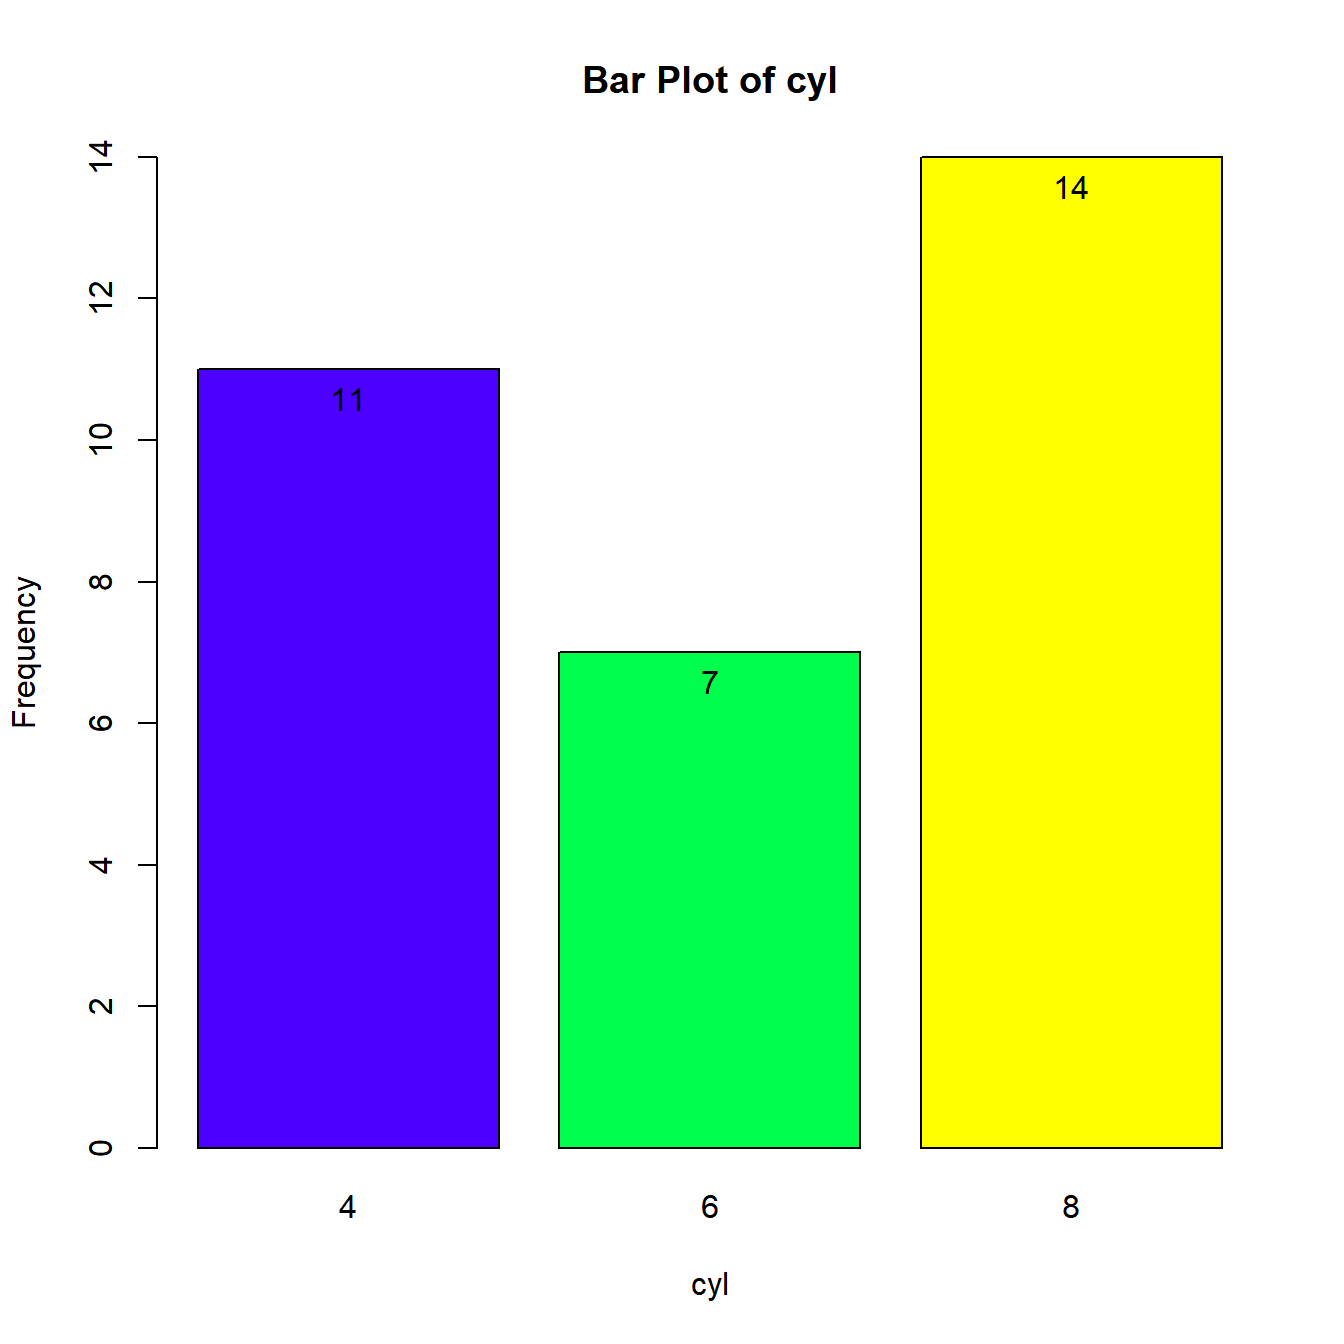
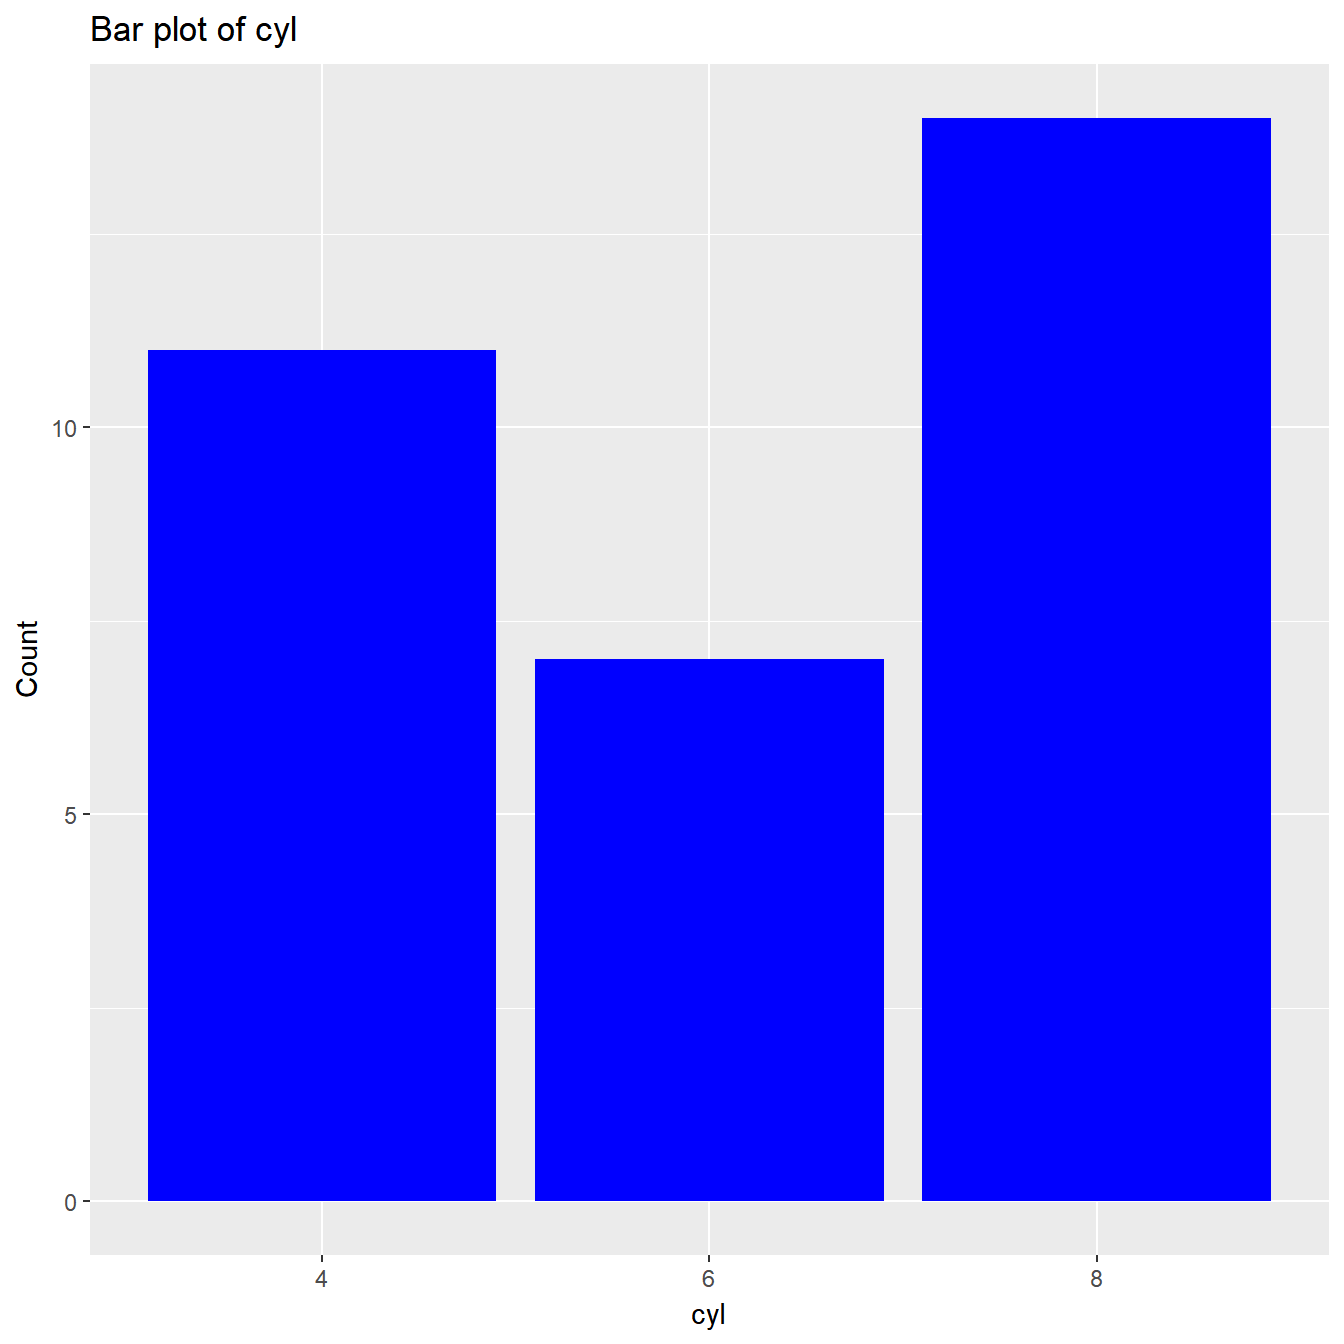
use ggplot2 for frequency table plots

diff --git a/docs/reference/ds_freq_table.html b/docs/reference/ds_freq_table.html
@@ -117,7 +117,7 @@ frequency table created using <code>ds_freq_table</code></p>
     <pre class="usage"><span class='fu'>ds_freq_table</span>(<span class='no'>data</span>, <span class='no'>variable</span>)
 
 <span class='co'># S3 method for ds_freq_table</span>
-<span class='fu'>barplot</span>(<span class='no'>height</span>, <span class='no'>...</span>)</pre>
+<span class='fu'>plot</span>(<span class='no'>x</span>, <span class='no'>...</span>)</pre>
     
     <h2 class="hasAnchor" id="arguments"><a class="anchor" href="#arguments"></a> Arguments</h2>
     <table class="ref-arguments">
@@ -131,7 +131,7 @@ frequency table created using <code>ds_freq_table</code></p>
       <td><p>column in <code>data</code></p></td>
     </tr>
     <tr>
-      <th>height</th>
+      <th>x</th>
       <td><p>an object of class <code>ds_freq_table</code></p></td>
     </tr>
     <tr>
@@ -175,7 +175,7 @@ following components</p>
 #&gt; </div><div class='input'>
 <span class='co'># barplot</span>
 <span class='no'>k</span> <span class='kw'>&lt;-</span> <span class='fu'>ds_freq_table</span>(<span class='no'>mtcarz</span>, <span class='no'>cyl</span>)
-<span class='fu'>barplot</span>(<span class='no'>k</span>)</div><div class='img'><img src='ds_freq_table-1.png' alt='' width='700' height='432.632880098887' /></div></pre>
+<span class='fu'>plot</span>(<span class='no'>k</span>)</div><div class='img'><img src='ds_freq_table-1.png' alt='' width='700' height='432.632880098887' /></div></pre>
   </div>
   <div class="col-md-3 hidden-xs hidden-sm" id="sidebar">
     <h2>Contents</h2>

diff --git a/docs/articles/descriptive-stats.html b/docs/articles/descriptive-stats.html
@@ -267,7 +267,7 @@
 <a href="#bar-plot" class="anchor"></a>Bar Plot</h3>
 <p>A barplot method has been defined.</p>
 <div class="sourceCode" id="cb14"><pre class="sourceCode r"><code class="sourceCode r"><a class="sourceLine" id="cb14-1" data-line-number="1">k &lt;-<span class="st"> </span><span class="kw"><a href="../reference/ds_freq_table.html">ds_freq_table</a></span>(mtcarz, cyl)</a>
-<a class="sourceLine" id="cb14-2" data-line-number="2"><span class="kw">barplot</span>(k)</a></code></pre></div>
+<a class="sourceLine" id="cb14-2" data-line-number="2"><span class="kw">plot</span>(k)</a></code></pre></div>
 <p><img src="descriptive-stats_files/figure-html/ftable_bar-1.png" width="672"></p>
 </div>
 </div>

diff --git a/docs/reference/index.html b/docs/reference/index.html
@@ -168,7 +168,7 @@
         </tr><tr>
           <!--  -->
           <td>
-            <p><code><a href="ds_freq_table.html">ds_freq_table</a></code> <code><a href="ds_freq_table.html">barplot</a></code> </p>
+            <p><code><a href="ds_freq_table.html">ds_freq_table</a></code> <code><a href="ds_freq_table.html">plot</a></code> </p>
           </td>
           <td><p>Frequency Table: Categorical Data</p></td>
         </tr><tr>
